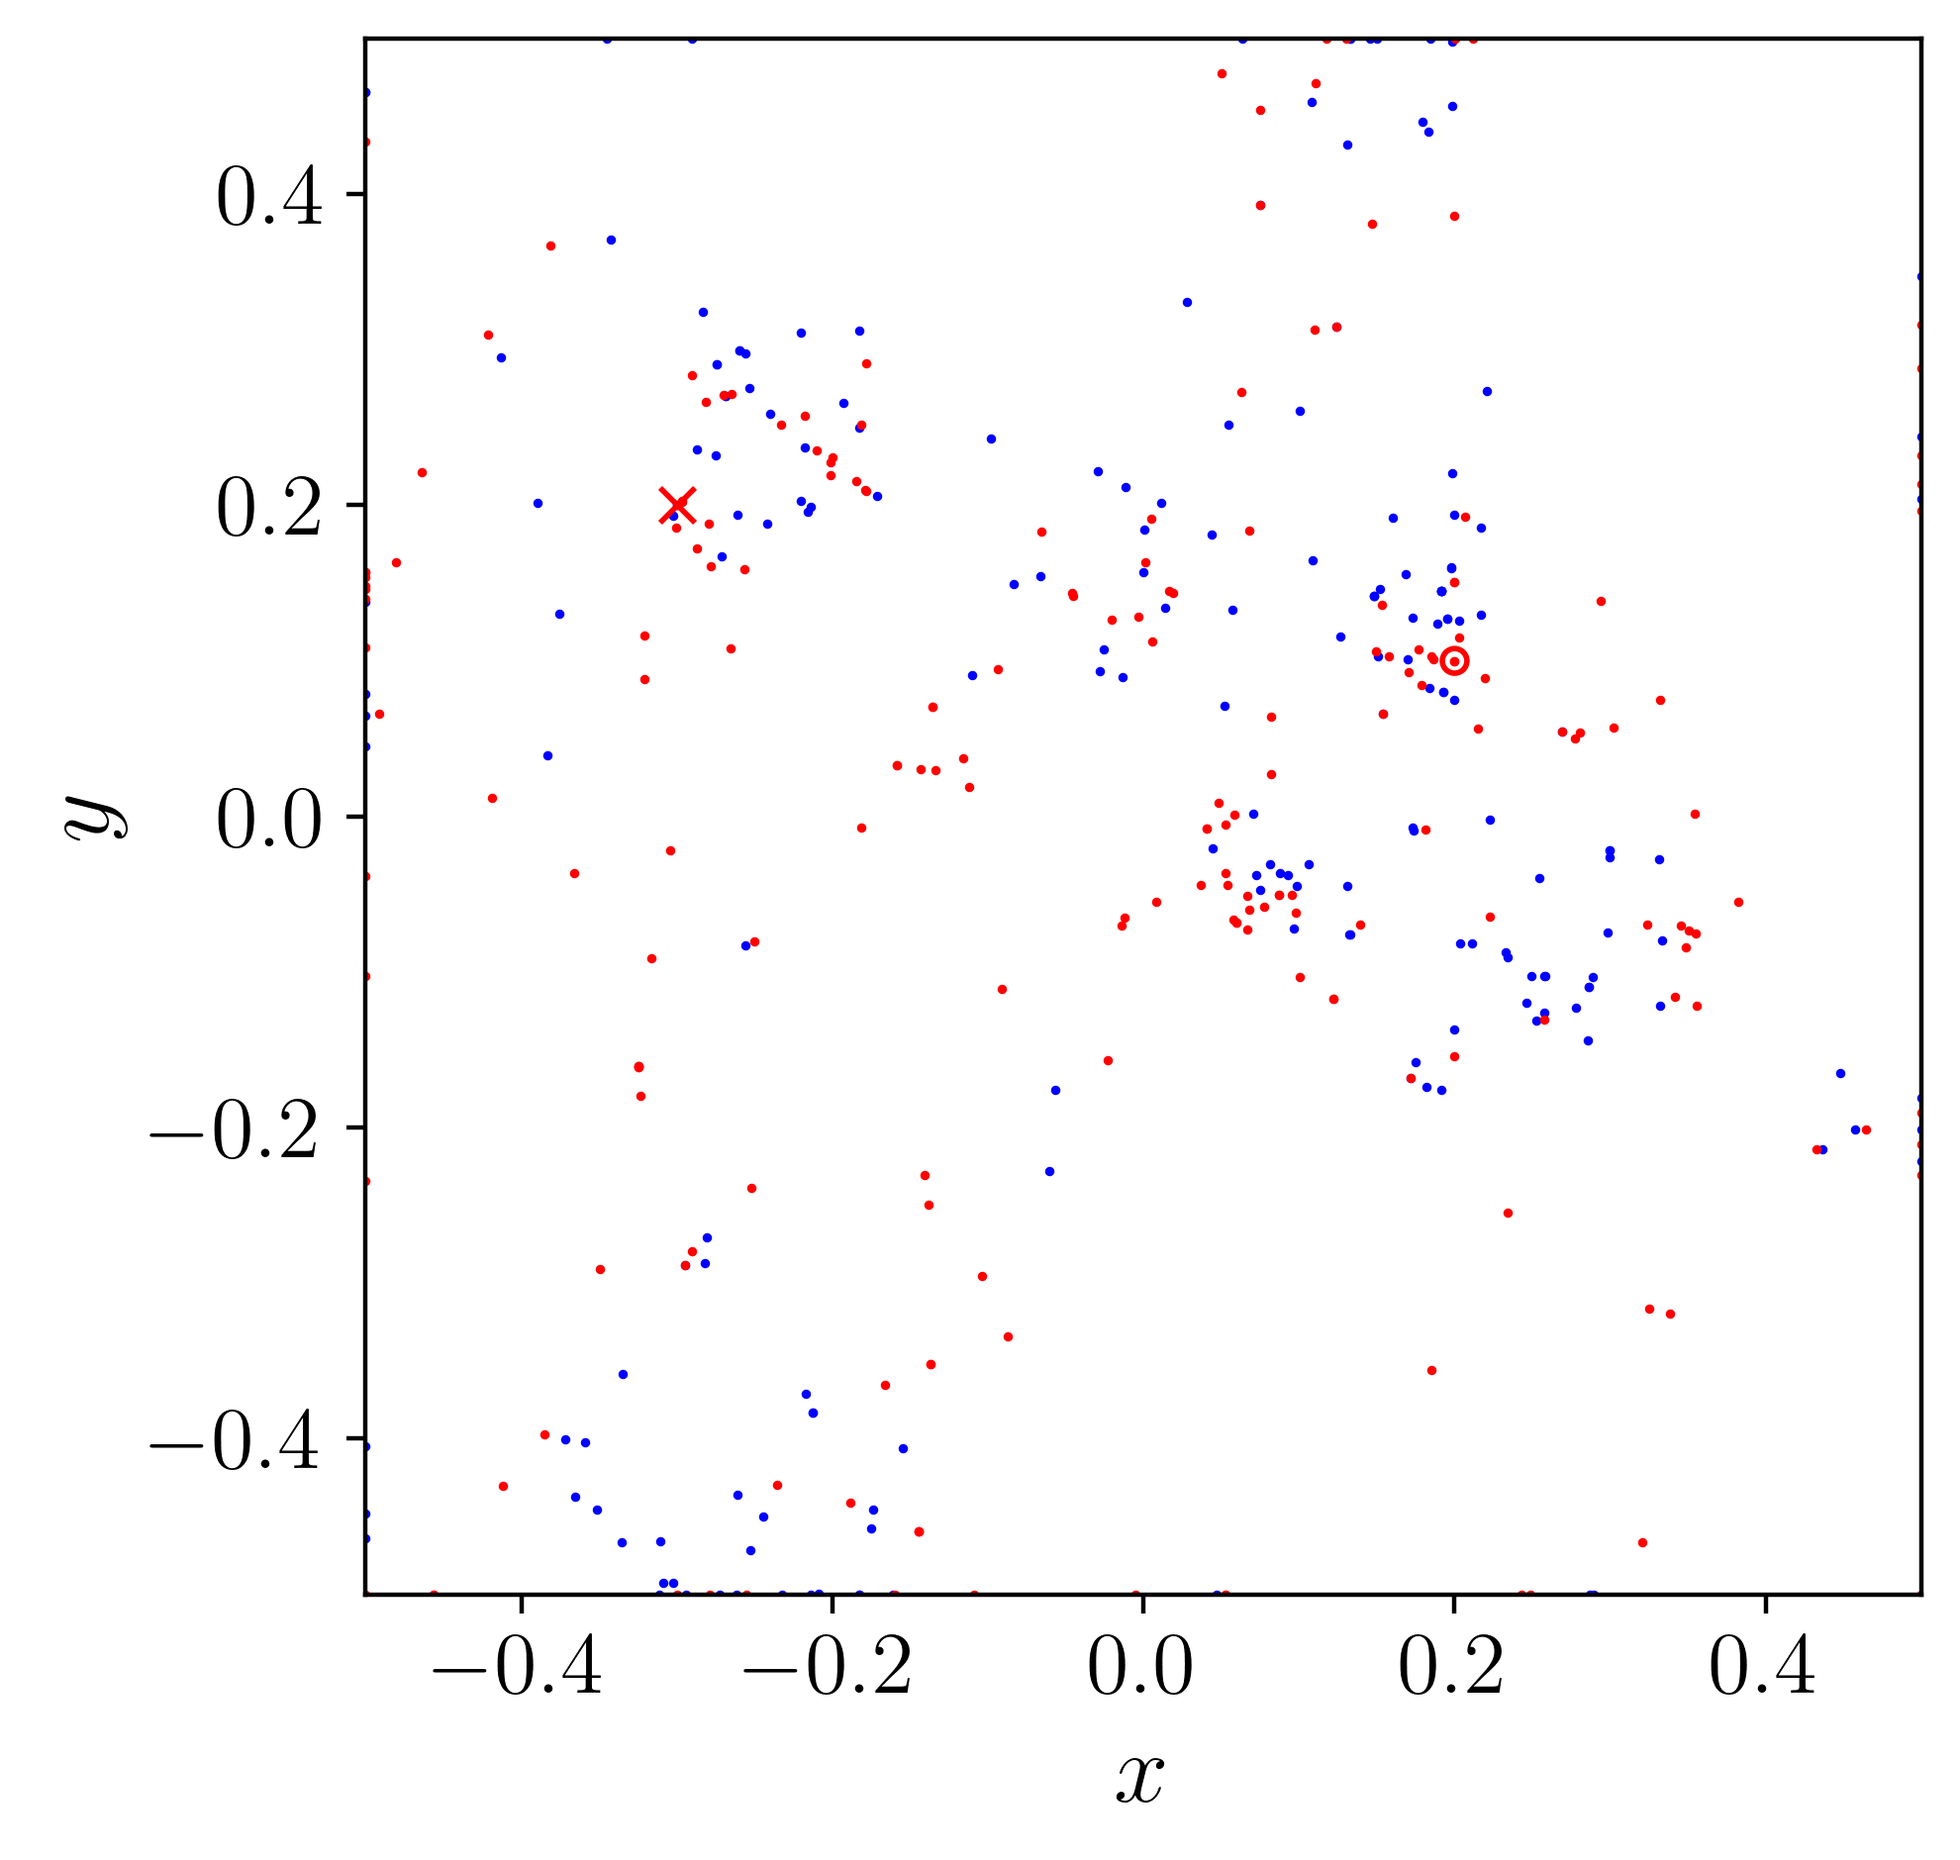
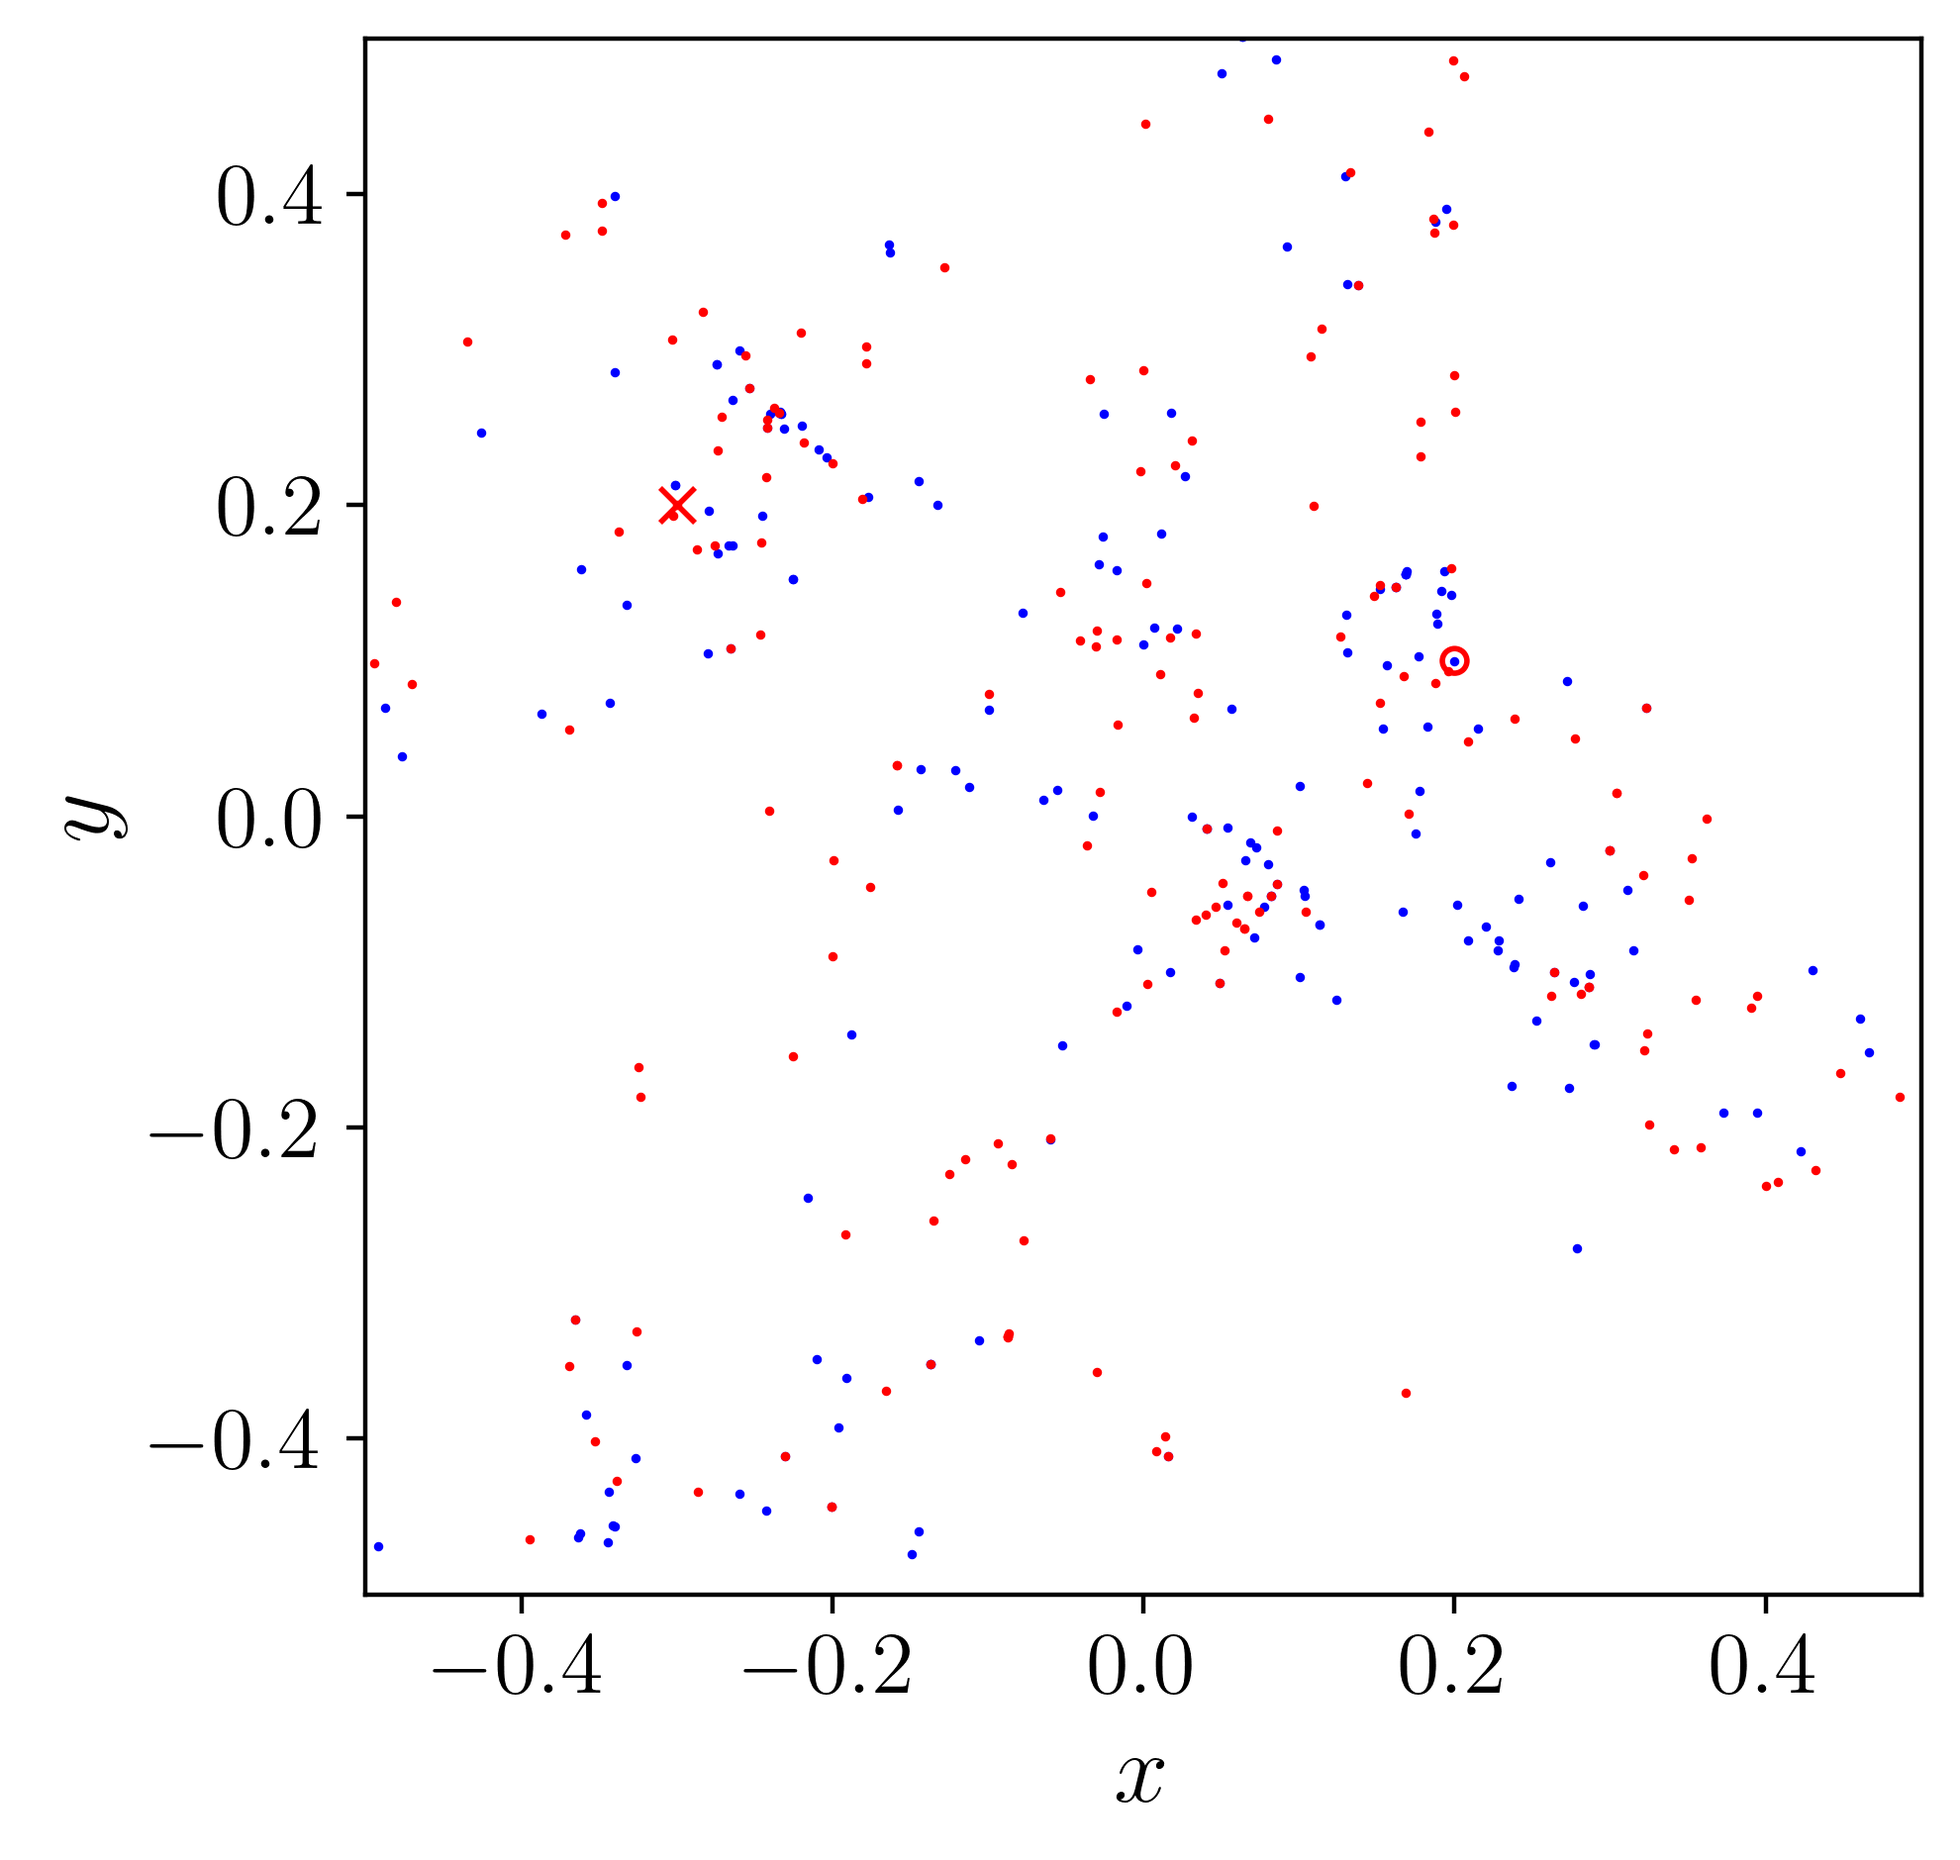
stuff

diff --git a/worboy_recreation.py b/worboy_recreation.py
@@ -6,12 +6,15 @@ matplotlib.rcParams['text.usetex'] = True
 
 from qclm import Emitter, GaussLaguerre, GaussHermite, Detector, Solver
 from scipy.optimize import minimize
+from scipy.optimize import fmin
+
+scan_confocally = True
 
 def main() -> None:
     
     # the three detector form
     
-    uniform_illumination = GaussHermite(0, 0, 1., 10000, center=[-0.1,-0.1], rotation=np.pi/5)
+    uniform_illumination = GaussHermite(0, 0, 1., 1000)
     
     detectors = [
         Detector([0,1]),
@@ -25,22 +28,28 @@ def main() -> None:
     )
 
     e_2 = Emitter(
-        np.array([0.5146,   -0.5573]),
+        np.array([0.5146,0.5573]),
         0.3617
     )
+    
+    # do a confocal scan
+    
+    # if scan_confocally:
+        
+        
     
     g_1_true = np.ndarray((3,1))
     g_2_true = np.ndarray((3,1))
     
     for detector_idx in range(len(detectors)):
         
-        p_1 = uniform_illumination.intensityFn(*e_1.xy)
-        p_2 = uniform_illumination.intensityFn(*e_2.xy)
+        p_1 = e_1.relative_brightness * uniform_illumination.intensityFn(*e_1.xy)
+        p_2 = e_2.relative_brightness * uniform_illumination.intensityFn(*e_2.xy)
         
-        p_1 = e_1.relative_brightness * detectors[detector_idx].detectFn(*e_1.xy, p_1)
-        p_2 = e_2.relative_brightness * detectors[detector_idx].detectFn(*e_2.xy, p_2)
+        p_1 = detectors[detector_idx].detectFn(*e_1.xy, p_1)
+        p_2 = detectors[detector_idx].detectFn(*e_2.xy, p_2)
         
-        alpha = p_2 / p_2
+        alpha = p_2 / p_1
         
         g_1_true[detector_idx] = (p_1 + p_2) / (e_1.relative_brightness + e_2.relative_brightness)
         g_2_true[detector_idx] = (2 * alpha) / (1 + alpha)**2
@@ -52,23 +61,23 @@ def main() -> None:
         g_1_guess = np.ndarray((3,1))
         g_2_guess = np.ndarray((3,1))
         
-        e_1_guess = Emitter(x[:2], 1.)
-        e_2_guess = Emitter(x[2:4], x[4])
+        e_1_guess = Emitter(xy=x[:2], relative_brightness=1.)
+        e_2_guess = Emitter(xy=x[2:4], relative_brightness=x[4])
         
         for detector_idx in range(len(detectors)):
             
-            p_1 = uniform_illumination.intensityFn(*e_1.xy)
-            p_2 = uniform_illumination.intensityFn(*e_2.xy)
+            p_1 = e_1_guess.relative_brightness * uniform_illumination.intensityFn(*e_1.xy)
+            p_2 = e_2_guess.relative_brightness * uniform_illumination.intensityFn(*e_2.xy)
             
-            p_1 = e_1_guess.relative_brightness * detectors[detector_idx].detectFn(*e_1.xy, p_1)
-            p_2 = e_2_guess.relative_brightness * detectors[detector_idx].detectFn(*e_2.xy, p_2)
+            p_1 = detectors[detector_idx].detectFn(*e_1.xy, p_1)
+            p_2 = detectors[detector_idx].detectFn(*e_2.xy, p_2)
             
             alpha = p_2 / p_1
             
             g_1_guess[detector_idx] = (p_1 + p_2) / (e_1_guess.relative_brightness + e_2_guess.relative_brightness)
             g_2_guess[detector_idx] = (2 * alpha) / (1 + alpha)**2
             
-        return np.sum((g_1_true - g_1_guess)**2 + (g_2_true - g_2_guess)**2)
+        return np.sum((g_1_true - g_1_guess)**2) + np.sum((g_2_true - g_2_guess)**2)
     
     optimization_lambda = lambda guess: rss(guess)
     
@@ -82,19 +91,21 @@ def main() -> None:
         
         # print(trial_idx)
     
-        # x_0 = 0.25 * np.random.randn(5,1)
-        # x_0[4] = 0.5
+        x_0 = 0.25 * np.random.randn(5,1)
+        x_0[4] = 0.5
         
-        x_0 = np.array([*e_1.xy,*e_2.xy,e_2.relative_brightness])
+        # x_0 = np.array([*e_1.xy,*e_2.xy,e_2.relative_brightness])
         
-        opt_result = minimize(
-            fun=optimization_lambda,
-            x0=x_0,
-            method='Nelder-Mead',
-            bounds=[(-1,1),(-1,1),(-1,1),(-1,1),(0,1)]
-        )
+        # opt_result = minimize(
+        #     fun=optimization_lambda,
+        #     x0=x_0,
+        #     method='Nelder-Mead',
+        #     bounds=[(-1,1),(-1,1),(-1,1),(-1,1),(0,1)]
+        # )
         
-        x_opt[trial_idx,:] = opt_result.x
+        # x_opt[trial_idx,:] = opt_result.x
+        
+        x_opt[trial_idx], _, _, _, _ = fmin(func=optimization_lambda, x0=x_0, disp=False, full_output=True)
         
     print(np.mean(x_opt, axis=0))
     
@@ -102,6 +113,9 @@ def main() -> None:
     plt.scatter(x_opt[0:,2],x_opt[0:,3], c='r', s=2., marker='.')
     plt.scatter(e_1.xy[0], e_1.xy[1], c='r', marker='x', s=40, linewidths=1)
     plt.scatter(e_2.xy[0], e_2.xy[1], facecolors='none', edgecolors='r', marker='o', s=20, linewidths=1)
+    plt.scatter(detectors[0].center[0], detectors[0].center[1], c='k', marker='x', s=20, linewidths=1)
+    plt.scatter(detectors[1].center[0], detectors[1].center[1], c='k', marker='x', s=20, linewidths=1)
+    plt.scatter(detectors[2].center[0], detectors[2].center[1], c='k', marker='x', s=20, linewidths=1)
     # plt.xlim(-detector.waist/2,detector.waist/2)
     # plt.ylim(-detector.waist/2,detector.waist/2)
     plt.xlabel(r"$x$", fontsize=18)

diff --git a/off_axis_localization.py b/off_axis_localization.py
@@ -7,6 +7,7 @@ matplotlib.rcParams['text.usetex'] = True
 
 from qclm import Emitter, GaussLaguerre, GaussHermite, Detector, Solver
 from scipy.optimize import minimize
+from scipy.optimize import fmin
 
 grid_x = 3750
 grid_y = 3750
@@ -86,14 +87,16 @@ def main() -> None:
         
         # x_0 = np.array([*e_1.xy,*e_2.xy,0.5])
         
-        opt_result = minimize(
-            fun=solver.optimization_lambda,
-            x0=x_0,
-            method='Nelder-Mead',
-            bounds=[(-detector.waist/2,detector.waist/2),(-detector.waist/2,detector.waist/2),(-detector.waist/2,detector.waist/2),(-detector.waist/2,detector.waist/2),(0,1)]
-        )
+        # opt_result = minimize(
+        #     fun=solver.optimization_lambda,
+        #     x0=x_0,
+        #     method='Nelder-Mead',
+        #     bounds=[(-detector.waist/2,detector.waist/2),(-detector.waist/2,detector.waist/2),(-detector.waist/2,detector.waist/2),(-detector.waist/2,detector.waist/2),(0,1)]
+        # )
+        # x_opt[trial_idx,:] = opt_result.x
         
-        x_opt[trial_idx,:] = opt_result.x
+        x_opt[trial_idx], _, _, _, _ = fmin(func=solver.optimization_lambda, x0=x_0, disp=False, full_output=True)
+        
         
     print(np.mean(x_opt, axis=0))
     

diff --git a/qclm.py b/qclm.py
@@ -214,7 +214,7 @@ class Solver:
             
             g_2_guess[is_idx] = (2 * alpha) / (1 + alpha)**2
             
-        return np.sum((self.g_1_true - g_1_guess)**2 + (self.g_2_true - g_2_guess)**2)
+        return np.sum((self.g_1_true - g_1_guess)**2) + np.sum((self.g_2_true - g_2_guess)**2)
     
 #     xy_emitter_1 = Emitter(ps_vec[0:2], 1.0)
 #     xy_emitter_2 = Emitter(ps_vec[2:4], p_0_2)
